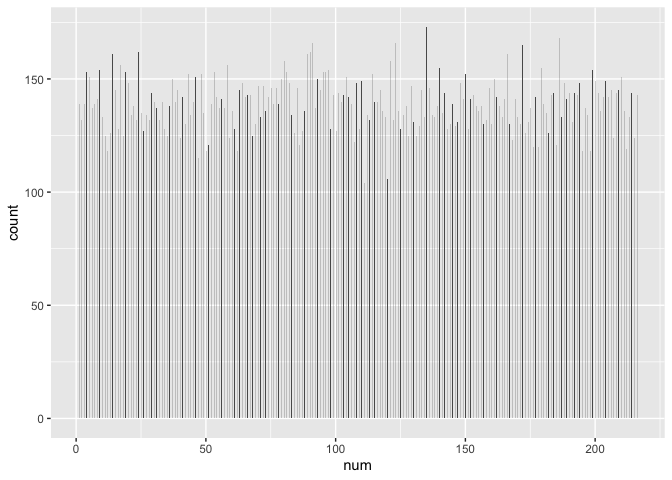
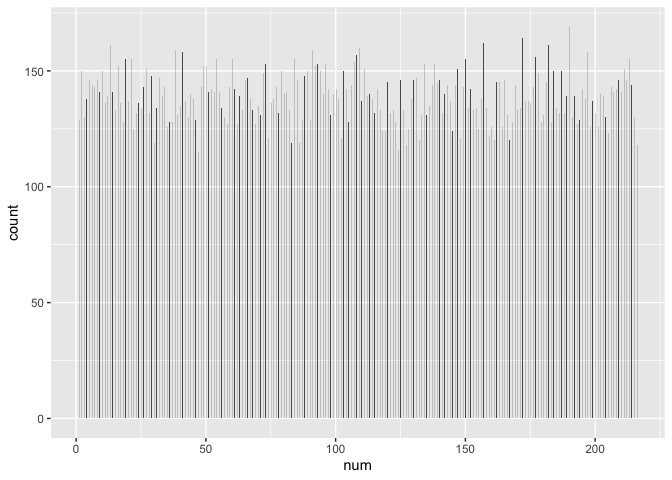
This is a die roll experiment project inspired from a book written for beginner statistics learners by Yoichi Takahashi, Japanese economicst

diff --git a/Die_Roll_Experiment_Project.md b/Die_Roll_Experiment_Project.md
@@ -114,12 +114,12 @@ head(df)
 ```
 
     ##   result
-    ## 1    411
-    ## 2    513
-    ## 3    211
-    ## 4    245
-    ## 5    565
-    ## 6    545
+    ## 1    616
+    ## 2    453
+    ## 3    444
+    ## 4    321
+    ## 5    543
+    ## 6    624
 
 ## Joining the Two Tables
 
@@ -167,16 +167,16 @@ head(final.table,10)
     ## # Groups:   num, result [10]
     ##      num result     n
     ##    <dbl>  <dbl> <int>
-    ##  1     1    111   136
-    ##  2     2    211   156
-    ##  3     3    311   142
-    ##  4     4    411   106
-    ##  5     5    511   127
-    ##  6     6    611   149
-    ##  7     7    121   157
-    ##  8     8    221   125
-    ##  9     9    321   138
-    ## 10    10    421   146
+    ##  1     1    111   151
+    ##  2     2    211   130
+    ##  3     3    311   137
+    ##  4     4    411   142
+    ##  5     5    511   154
+    ##  6     6    611   126
+    ##  7     7    121   144
+    ##  8     8    221   139
+    ##  9     9    321   145
+    ## 10    10    421   152
 
 ``` r
 tail(final.table,10)
@@ -186,16 +186,16 @@ tail(final.table,10)
     ## # Groups:   num, result [10]
     ##      num result     n
     ##    <dbl>  <dbl> <int>
-    ##  1   207    356   135
-    ##  2   208    456   146
-    ##  3   209    556   162
-    ##  4   210    656   127
-    ##  5   211    166   145
-    ##  6   212    266   126
-    ##  7   213    366   139
-    ##  8   214    466   151
-    ##  9   215    566   141
-    ## 10   216    666   148
+    ##  1   207    356   148
+    ##  2   208    456   136
+    ##  3   209    556   128
+    ##  4   210    656   136
+    ##  5   211    166   157
+    ##  6   212    266   130
+    ##  7   213    366   131
+    ##  8   214    466   146
+    ##  9   215    566   167
+    ## 10   216    666   135
 
 ``` r
 mean(final.table$n)
